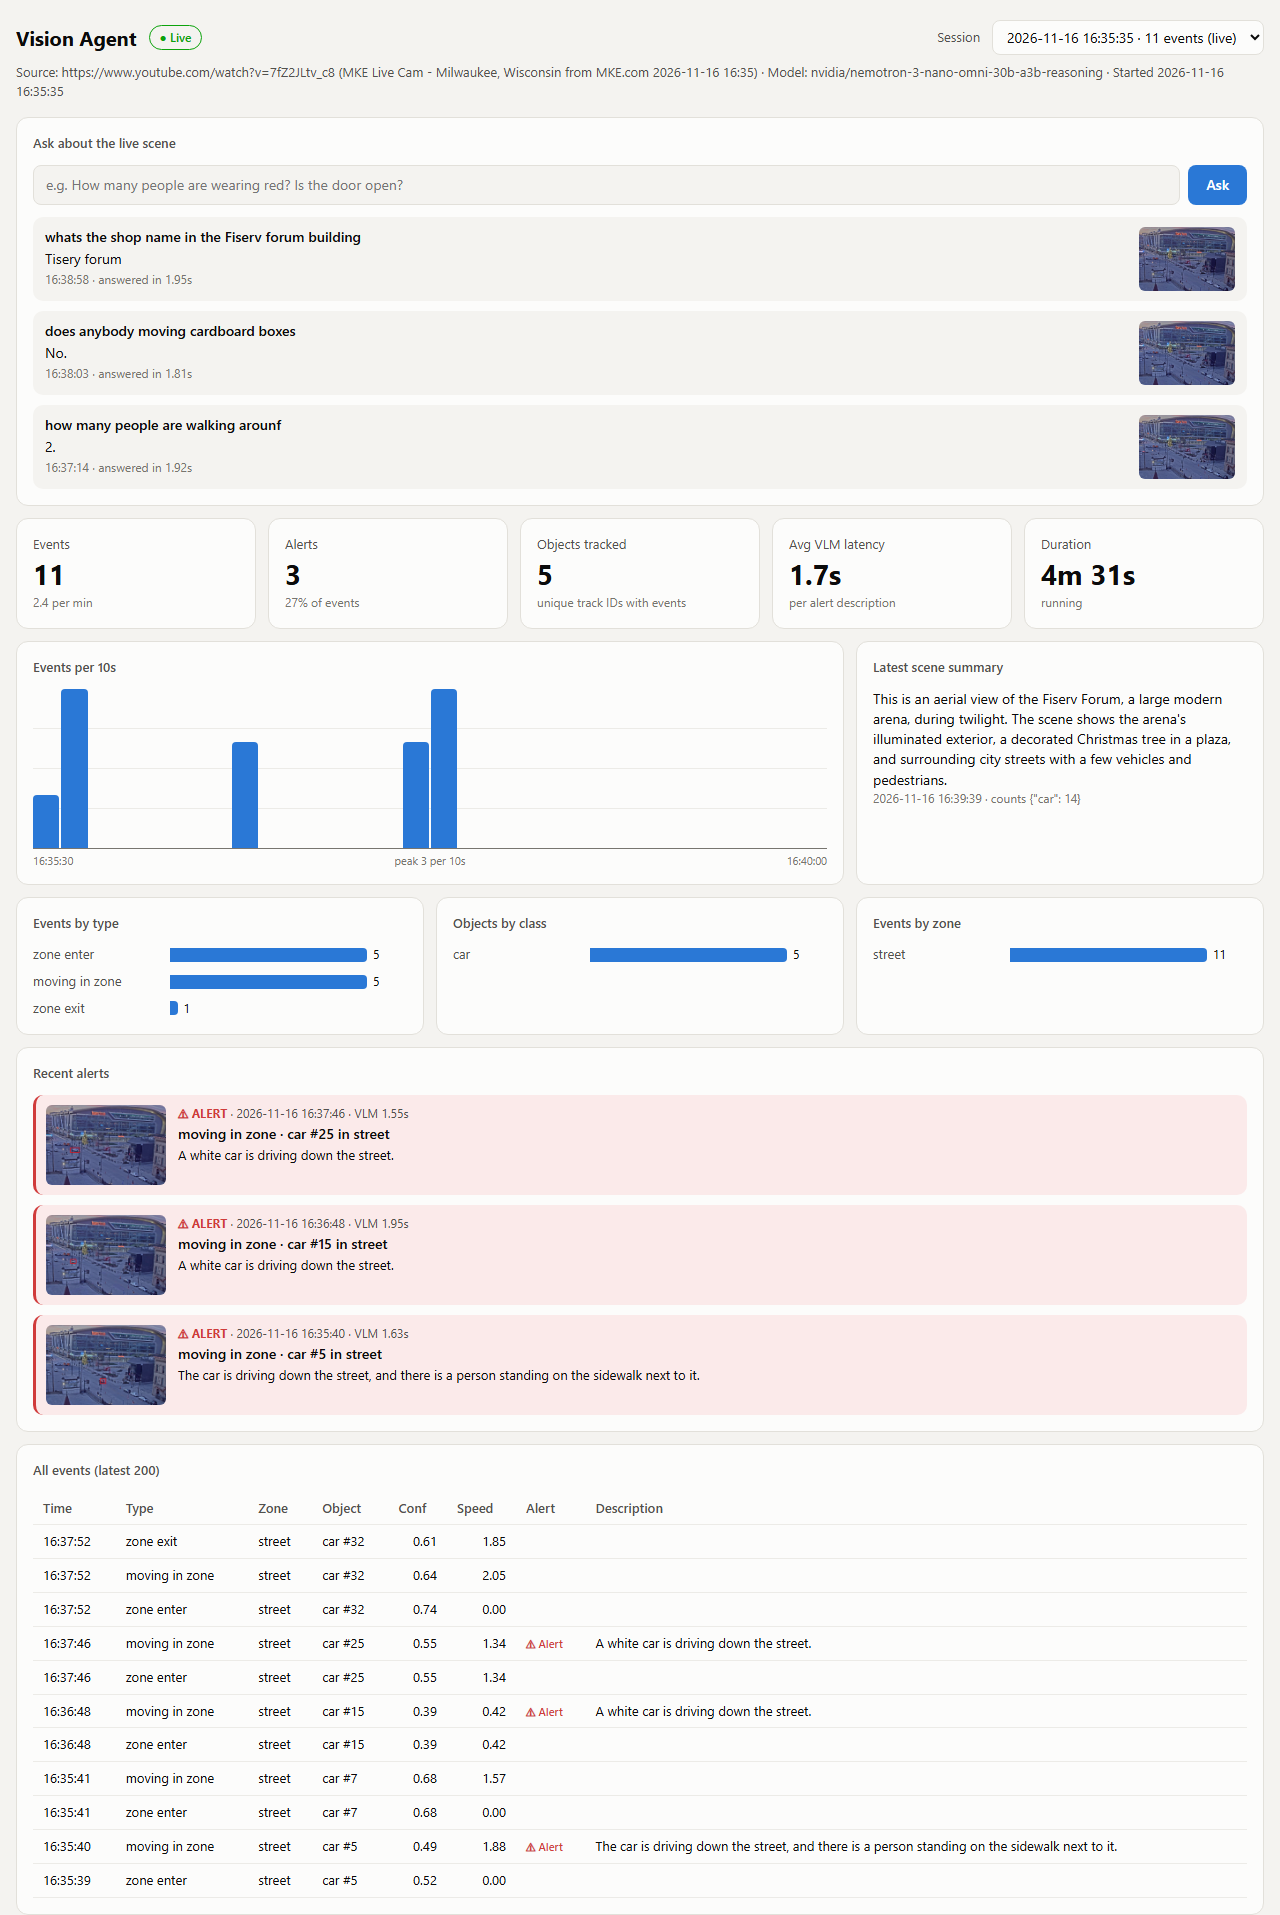
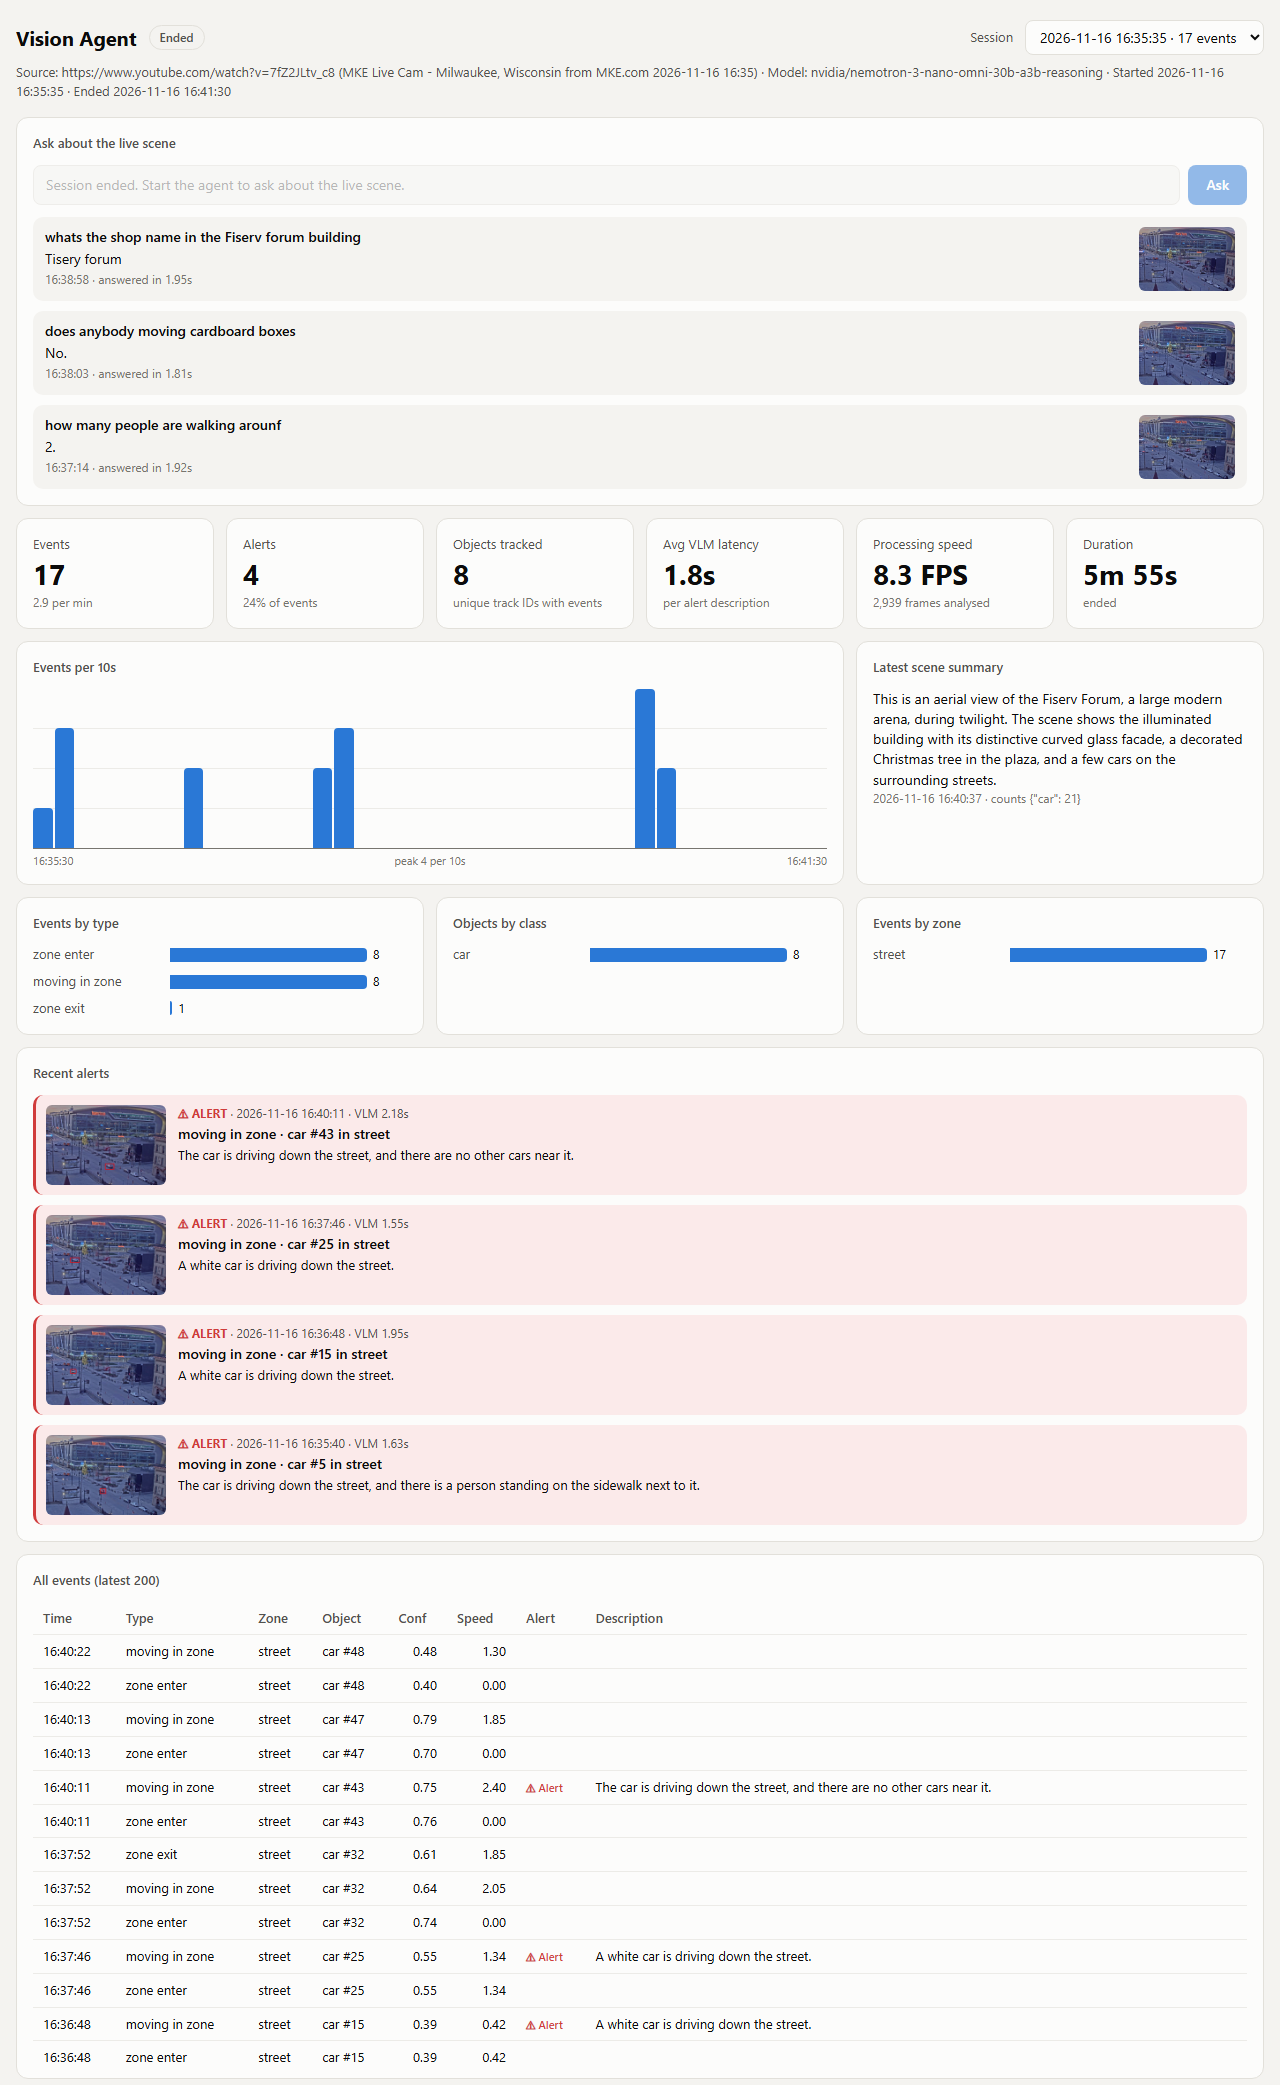
Show live processing speed on the dashboard
The agent now writes frames processed and average FPS to the session
every 5 s, and the dashboard has a "Processing speed" KPI tile, so FPS
is visible while a session runs (previously only after it ended).
README: new dashboard screenshot with the tile, and FPS figures for both
headless (~18) and preview-window (~8) runs.

diff --git a/vision_agent/dashboard.html b/vision_agent/dashboard.html
@@ -169,6 +169,7 @@
     <div class="card kpi"><div class="l">Alerts</div><div class="v" id="k-alerts">–</div><div class="s" id="k-alerts-s"></div></div>
     <div class="card kpi"><div class="l">Objects tracked</div><div class="v" id="k-objects">–</div><div class="s">unique track IDs with events</div></div>
     <div class="card kpi"><div class="l">Avg VLM latency</div><div class="v" id="k-lat">–</div><div class="s">per alert description</div></div>
+    <div class="card kpi"><div class="l">Processing speed</div><div class="v" id="k-fps">–</div><div class="s" id="k-fps-s"></div></div>
     <div class="card kpi"><div class="l">Duration</div><div class="v" id="k-dur">–</div><div class="s" id="k-dur-s"></div></div>
   </section>
 
@@ -333,7 +334,11 @@ function render(d) {
   $("k-objects").textContent = k.objects;
   $("k-lat").textContent = k.vlm_latency != null ? k.vlm_latency.toFixed(1) + "s" : "–";
   $("k-dur").textContent = fmtDur(d.duration_s);
-  $("k-dur-s").textContent = s.frames ? `${s.frames} frames · ${s.avg_fps} fps` : (d.live ? "running" : "");
+  $("k-dur-s").textContent = d.live ? "running" : "ended";
+  $("k-fps").textContent = s.avg_fps != null ? `${Number(s.avg_fps).toFixed(1)} FPS` : "–";
+  $("k-fps-s").textContent = s.frames
+    ? `${Number(s.frames).toLocaleString()} frames analysed${d.live ? " so far" : ""}`
+    : (d.live ? "measuring…" : "");
 
   timeline($("timeline"), d.timeline);
   bars($("by-type"), d.by_type, "events");

diff --git a/vision_agent/run.py b/vision_agent/run.py
@@ -213,7 +213,7 @@ def main():
     worker = VLMWorker(VLMClient(args.api_key, model=args.model, url=args.url), on_vlm_result)
 
     last_id, frames, t_start, last_summary = -1, 0, time.time(), time.time()
-    last_poll, last_watch = 0.0, 0.0
+    last_poll, last_watch, last_progress = 0.0, 0.0, time.time()
     watch_prompt = None
     if args.ask:
         watch_prompt = args.ask if "yes or no" in args.ask.lower() else f"{args.ask} Answer only yes or no."
@@ -277,6 +277,9 @@ def main():
             fps_n += 1
             if t - fps_t >= 1.0:
                 fps, fps_t, fps_n = fps_n / (t - fps_t), t, 0
+            if t - last_progress >= 5.0:  # live frames/FPS for the dashboard
+                last_progress = t
+                store.update_progress(sid, frames, round(frames / max(t - t_start, 1e-6), 2))
 
             if not args.no_display:
                 ui["alert_zones"] = {z: u for z, u in ui["alert_zones"].items() if u > t}

diff --git a/vision_agent/storage.py b/vision_agent/storage.py
@@ -80,6 +80,10 @@ class Store:
         )
         return sid
 
+    def update_progress(self, sid, frames, avg_fps):
+        """Live heartbeat so the dashboard can show frames processed and FPS while running."""
+        self._exec("UPDATE sessions SET frames=?, avg_fps=? WHERE id=?", (frames, avg_fps, sid))
+
     def end_session(self, sid, frames, avg_fps):
         self._exec("UPDATE sessions SET ended_at=?, frames=?, avg_fps=? WHERE id=?", (now(), frames, avg_fps, sid))
 

diff --git a/README.md b/README.md
@@ -24,10 +24,11 @@ every frame. See [How it works](#how-it-works-yolo--vision-language-models) for 
 All screenshots are from real runs on a public YouTube live cam (Fiserv Forum, Milwaukee) with the
 `nvidia/nemotron-3-nano-omni-30b-a3b-reasoning` VLM.
 
-**Live dashboard:** the Ask box, KPIs, event timeline, breakdowns by type/class/zone, the latest
-VLM scene summary, and alerts with their snapshot and the VLM's description.
+**Dashboard:** the Ask box, KPIs (including processing speed), event timeline, breakdowns by
+type/class/zone, the latest VLM scene summary, and alerts with their snapshot and the VLM's
+description. This is a finished ~6-minute session; while a session runs, the page refreshes live.
 
-![Live dashboard session: Ask box with three answered questions, 11 events, 3 alerts, 1.7 s average VLM latency, an events-per-10s timeline, a twilight scene summary of the Fiserv Forum, and alert cards such as "A white car is driving down the street."](docs/images/dashboard.png)
+![Dashboard for a finished 6-minute session: three answered questions, 17 events, 4 alerts, 1.8 s average VLM latency, 8.3 FPS over 2,939 frames, an events-per-10s timeline, a twilight scene summary of the Fiserv Forum, and alert cards such as "The car is driving down the street, and there is a person standing on the sidewalk next to it."](docs/images/dashboard.png)
 
 **Ask about the live scene:** natural-language questions answered by the VLM about the current
 frame in under 2 seconds, with the exact frame it looked at. Answers are not always right: here
@@ -100,7 +101,8 @@ reader always hands over the newest frame (lowest latency). YouTube/Twitch/HLS s
 multi-second segments in bursts, so the reader paces them out at the stream's own frame rate, like a
 video player, a few seconds behind live. Without this, the agent would only ever see the last frame
 of each burst (about 1 FPS); with it, a 720p YouTube live stream is processed at ~18 FPS on a laptop
-CPU (headless).
+CPU when headless (`--no-display`), and ~8 FPS in a 6-minute run with the preview window, dashboard
+and browser open on the same machine. The dashboard's *Processing speed* tile shows the live figure.
 
 ### Zones
 
@@ -191,7 +193,7 @@ That flexibility has costs, which is why this project does not use a VLM alone:
 | | YOLO (local detector) | VLM (NVIDIA NIM) |
 |---|---|---|
 | Output | boxes + 80 fixed classes, track IDs | free-form text |
-| Speed | real-time on a laptop CPU (~18 FPS tracking a 720p live stream, ~50 ms per frame) | ~1–5 s per request over the network |
+| Speed | real-time on a laptop CPU (8–18 FPS tracking a 720p live stream, ~50 ms per frame headless) | ~1–5 s per request over the network |
 | Cost | free after download | one API request per image |
 | Understands | *what* and *where* | *what is happening* and *why it matters* |
 | Typical failure | missed or flickering boxes | confident but wrong descriptions (hallucination) |
